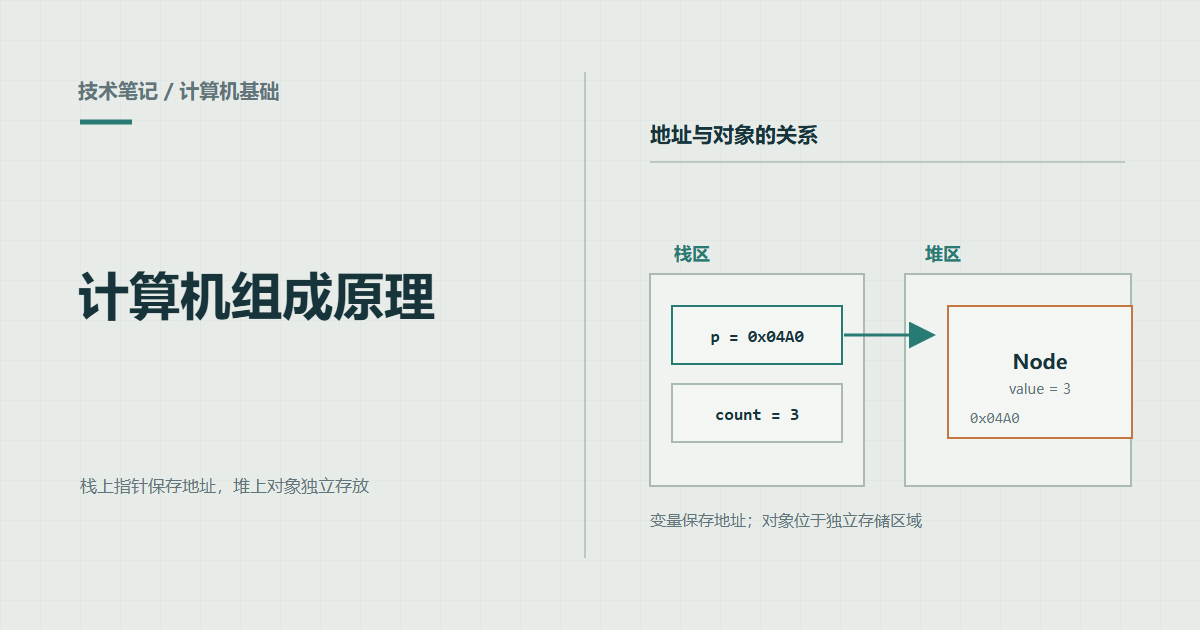
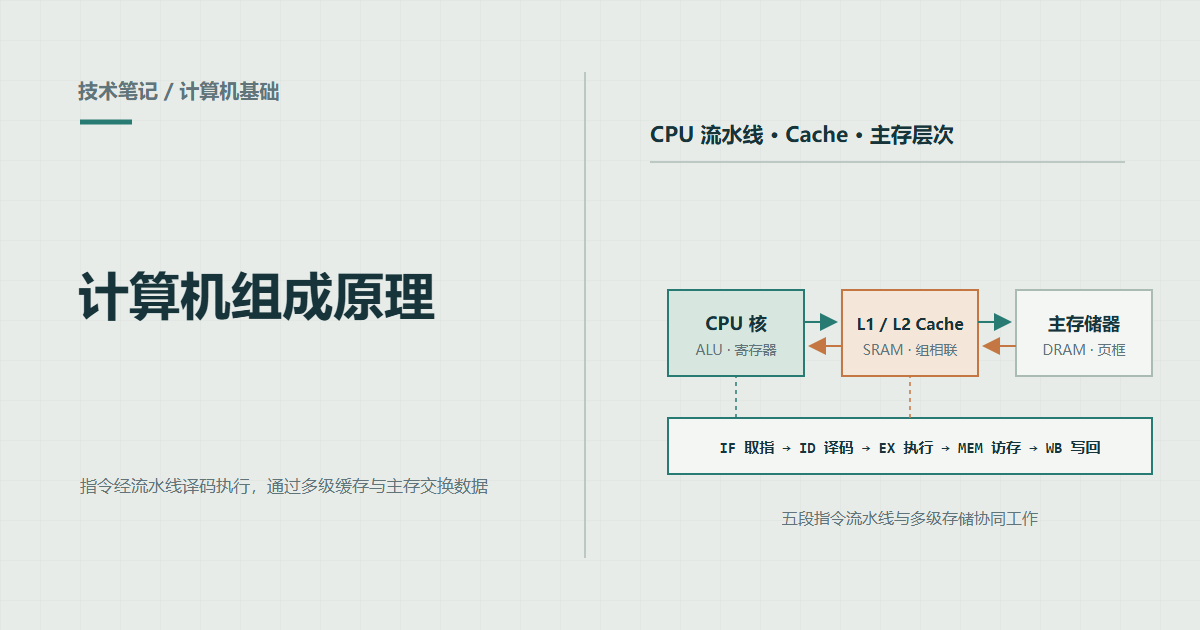
feat(post): add Computer Organization Ch3-Ch4 and center cover thumbnail

diff --git a/tools/covers/gen_covers.py b/tools/covers/gen_covers.py
@@ -42,6 +42,7 @@ CAPTIONS = {
     "covers": "文章信息经过排版，生成可发布封面",
     "pipeline": "三维顶点经过坐标变换与光栅化，最终着色为屏幕像素",
     "linux": "无 GUI 损耗，以纯文本配置与命令行驱动 7×24 小时持续构建",
+    "computer-org": "指令经流水线译码执行，通过多级缓存与主存交换数据",
 }
 
 
@@ -401,6 +402,24 @@ def diagram_linux():
     ])
 
 
+def diagram_computer_org():
+    return "".join([
+        t(650, 205, "CPU 流水线 · Cache · 主存层次", 21, INK, 650),
+        rule(650, 222, 1125, 222),
+        box(668, 290, 136, 86, "CPU 核", MINT, TEAL, 18, "ALU · 寄存器"),
+        box(842, 290, 136, 86, "L1 / L2 Cache", "#F4E6D9", ORANGE, 16, "SRAM · 组相联"),
+        box(1016, 290, 136, 86, "主存储器", PALE, SOFT, 18, "DRAM · 页框"),
+        rule(804, 322, 834, 322, TEAL, 2, marker="tealArrow"),
+        rule(842, 346, 812, 346, ORANGE, 2, marker="orangeArrow"),
+        rule(978, 322, 1008, 322, TEAL, 2, marker="tealArrow"),
+        rule(1016, 346, 986, 346, ORANGE, 2, marker="orangeArrow"),
+        box(668, 418, 484, 56, "IF 取指  →  ID 译码  →  EX 执行  →  MEM 访存  →  WB 写回", PALE, TEAL, 15, mono=True),
+        rule(736, 418, 736, 376, TEAL, 1.5, "4 4"),
+        rule(910, 418, 910, 376, ORANGE, 1.5, "4 4"),
+        t(910, 524, "五段指令流水线与多级存储协同工作", 16, MUTED, anchor="middle"),
+    ])
+
+
 def select_variant(top, sub, title):
     if sub == "图形学" or "渲染管线" in title or "Shader" in title:
         return "pipeline"
@@ -416,7 +435,7 @@ def select_variant(top, sub, title):
         if "计算机网络" in title: return "network"
         if "离散数学" in title: return "graph"
         if "数据结构" in title: return "huffman"
-        if "组成原理" in title: return "memory"
+        if "组成原理" in title: return "computer-org"
         return "process"
     if sub == "网络":
         if "帧同步" in title: return "frame-sync"
@@ -468,6 +487,7 @@ def diagram_for(kind):
     if kind in ("ai-coding", "ai-agent", "covers"): return diagram_ai(kind)
     if kind == "pipeline": return diagram_pipeline()
     if kind == "linux": return diagram_linux()
+    if kind == "computer-org": return diagram_computer_org()
     if kind in ("learning","reflection-notes"): return diagram_learning(kind=="reflection-notes")
     return diagram_layers("architecture", "")
 
@@ -483,6 +503,7 @@ def diagram_heading(kind):
         "ai-coding":"人机协作 · 工程回路","ai-agent":"Agent · 规划与工具调用",
         "covers":"文章到封面的生成链路","pipeline":"顶点变换 · 光栅化 · 片元着色",
         "linux":"无头服务 · 命令行 · 持续构建",
+        "computer-org":"CPU 流水线 · Cache · 主存层次",
         "learning":"学习闭环","reflection-notes":"经验与思考"}
     return names[kind]
 

diff --git a/source/_posts/【计算机基础】计算机组成原理.md b/source/_posts/【计算机基础】计算机组成原理.md
@@ -178,18 +178,135 @@ description: 基于唐朔飞/袁春风《计算机组成原理》、CSAPP 与 40
 
 ---
 
-## 第三章 存储系统（主存与高速缓冲存储器 Cache）（待更新）
+## 第三章 存储系统（主存与高速缓冲存储器 Cache）
 
-- **3.1 半导体主存（SRAM vs DRAM）、容量扩展与大小端字节序**：DRAM 三种刷新、字位扩展、多体低位交叉、大端/小端与结构体内存对齐。
-- **3.2 高速缓冲存储器（Cache）与三种地址映射**：直接映射、全相联映射、组相联映射的主存物理地址拆分与 Cache 总容量计算。
-- **3.3 Cache 替换算法、写策略与伪共享（False Sharing）**：LRU、全写法（Write-Through）vs 写回法（Write-Back）、Cache Line 伪共享。
+### 3.1 半导体主存（SRAM vs DRAM）、容量扩展与大小端字节序
+
+1. **三级存储体系层次结构**
+   - 现代计算机为解决“**容量、速度、价格**”三者之间的矛盾，基于局部性原理构建了存储金字塔：
+     1. **`Cache — 主存` 层次**：主要解决 **CPU 与主存速度不匹配**的问题。数据调度完全由**硬件（Cache 控制器）**自动完成，**对系统程序员和应用程序员均完全透明**。
+     2. **`主存 — 辅存（磁盘/SSD）` 层次**：主要解决**存储系统容量不足**的问题（构成虚拟存储器）。数据调页由**硬件（MMU 缺页异常）与操作系统软件**共同完成，**对应用程序员透明，但对系统（OS）程序员可见**。
+2. **SRAM（静态随机存储器）与 DRAM（动态随机存储器）核心对比（必考）**
+
+![半导体主存SRAM与DRAM刷新及大小端字节序](/img/posts/co-ch3-sram-dram-endian.svg)
+
+| 对比维度 | SRAM（静态 RAM） | DRAM（动态 RAM，DDR 内存条） |
+| :--- | :--- | :--- |
+| **存储元物理原理** | **双稳态触发器**（6 个 MOS 晶体管构成） | **栅极电容上的电荷**（1 个晶体管 + 1 个电容 `1T1C`） |
+| **读出是否破坏原值** | **非破坏性读出**（读出后无需重写） | **破坏性读出**（读出时电容放电，**读后必须立即执行再生重写**） |
+| **是否需要定期刷新** | **不需要刷新**（只要不断电数据永不丢失） | **必须定期刷新**（电容漏电，通常在 **`2ms` 刷新周期**内按**行**刷新全部行） |
+| **送行列地址方式** | 行、列地址**同时送达**（地址引脚多） | 采用**地址线复用技术**，行地址和列地址**分两次先后送入同一组引脚**（地址引脚数直接减半） |
+| **速度、密度与用途** | 速度极快、集成度低、功耗大、价格昂贵 → **用作 CPU 内部 Cache** | 速度较慢、集成度极高、功耗低、价格便宜 → **用作主存储器（内存条）** |
+
+   - **DRAM 的三种刷新方式（设存储矩阵为 `128 × 128`，读写周期 `0.5μs`，刷新周期 `2ms = 2000μs`；注意 DRAM 刷新以“行”为单位且刷新过程占用的时间等于 1 个读写周期）**：
+     1. **集中刷新**：在 `2ms` 内的最后一段时间集中对全部 `128` 行逐行刷新。缺点：集中刷新的这 `128 × 0.5μs = 64μs` 期间 CPU 和 DMA 完全无法访问主存，形成长达 `64μs` 的**访存“死区（死时间）”**。
+     2. **分散刷新**：将每行的刷新插入到每个正常的读写周期之后（把机器存取周期从 `0.5μs` 延长一倍至 `1.0μs`：前 `0.5μs` 正常读写，后 `0.5μs` 刷新某一行）。优点：彻底消除死区；缺点：每隔 `128μs` 就把全片刷新了一遍，**过度刷新导致整机主存性能降低一半**。
+     3. **异步刷新（工程最佳折中）**：用刷新周期除以总行数（**`刷新间隔 = 2000μs / 128 ≈ 15.6μs`**），每隔 `15.6μs` 仅发出一次刷新请求刷新 1 行。既避免了长死区（死时间缩短为单个周期 `0.5μs`，且可安排在 CPU 指令译码不访存阶段），又不会无谓延长存取周期。
+3. **主存芯片容量扩展（位扩展、字扩展、字位同时扩展）与多体交叉存储器**
+   - 设目标主存容量为 `M × N` 位，单颗存储芯片容量为 `m × n` 位，则所需芯片总数为 **`(M / m) × (N / n)`**：
+     - **位扩展（仅扩充数据位宽 `k = N / n` 颗）**：各芯片的**地址线、片选线 `CS`、读写控制线 `WE` 全部并联**，而各芯片的**数据线各自独立引出**共同拼成 `N` 位数据总线（所有芯片同时工作）。
+     - **字扩展（仅扩充存储字数 `k = M / m` 颗）**：各芯片的**低位地址线、数据线、读写线全部并联**，由**高位地址线经过译码器（如 3-8 译码器 `74LS138`）产生独立的片选信号 `CS`**，同一时刻仅有 1 颗芯片被选中工作。
+   - **多体并行交叉存储器（高位交叉 vs 低位交叉）**：
+     - **高位交叉编址（顺序方式：`体号 | 体内地址`）**：仅相当于单纯扩容，连续访问相邻地址时全部落在同一个存储体内，必发生访存冲突，无法并行提速。
+     - **低位交叉编址（交叉方式：`体内地址 | 体号`，连续地址轮流分布在 `m` 个不同存储体中，块号 `k = 地址 % m`）**：完美契合程序局部性原理，支持**流水线式并行存取**。设单个存储体的存取周期为 `T`，总线传输周期为 `τ`（满足 `m ≥ T / τ`），则**连续读取 `n` 个字所需的总时间**为：
+       **`t_总 = T + (n - 1) × τ`**（宏观上每个周期 `τ` 都能吐出 1 个字）。
+4. **数据的字节排列（大端序 vs 小端序）与结构体内存对齐**
+   - **大端模式（Big-Endian）与小端模式（Little-Endian）**：
+     以 32 位四字节整数 `0x12345678`（其中最高有效字节 `MSB = 0x12`，最低有效字节 `LSB = 0x78`）存放在起始地址 `0x1000` 为例：
+     - **大端序（高对低）**：将数据的**最高有效字节（`0x12`）存放在最低内存地址（`0x1000`）**，符合人类从左到右阅读习惯（**TCP/IP 网络字节序**、Java 虚拟机、PowerPC 采用）。
+     - **小端序（低对低，口诀必记）**：将数据的**最低有效字节（`0x78`）存放在最低内存地址（`0x1000`）**，便于硬件 ALU 从低位字节开始做加法和强制类型截断（**x86/x64、ARM 默认采用**）。
+   - **C/C++ 结构体字节对齐（Memory Alignment）的两大黄金法则**：
+     - **为什么硬件要求内存对齐**：CPU 并非按单字节读写内存，而是按 `4B / 8B` 字块或 `64B` Cache Line 读写；若一个 4 字节 `int` 跨在两个字块边界上，CPU 必须发 **2 次访存周期**再做高低位拼接，甚至在某些 RISC 架构上直接触发硬件对齐异常。
+     - **编译器对齐规则**：① 每个成员变量的**起始偏移量（Offset）必须是该成员自身大小（与 `#pragma pack(n)` 较小者）的整数倍**，不足则填充空白字节（Padding）；② **整个结构体的总大小必须是其内部最大基本成员对齐数的整数倍**。
 
 ---
 
-## 第四章 指令系统（ISA）（待更新）
+### 3.2 高速缓冲存储器（Cache）与三种地址映射
 
-- **4.1 指令格式、扩展操作码与数据寻址方式**：定长/变长扩展操作码、立即/直接/间接/寄存器/基址/变址/相对寻址 `EA = (PC) + A`。
-- **4.2 CISC（复杂指令集）与 RISC（精简指令集）对比**：x86 vs ARM/RISC-V 核心架构特征对照。
+1. **Cache 工作原理与命中率、平均访问时间**
+   - Cache 与主存被划分为大小完全相等的块：**Cache 块又称为 Cache 行（Cache Line / Slot，现代 CPU 通常为 `64B`）**。
+   - 设 CPU 命中 Cache 的总次数为 `Nc`，访问主存的总次数为 `Nm`，则**命中率 `H = Nc / (Nc + Nm)`**。设访问 Cache 耗时为 `tc`，访问主存耗时为 `tm`：
+     - **先访 Cache，未命中再访主存**：平均访问时间 **`Ta = H × tc + (1 - H) × (tc + tm) = tc + (1 - H) × tm`**；
+     - **同时访问 Cache 与主存**：平均访问时间 **`Ta = H × tc + (1 - H) × tm`**。
+2. **Cache — 主存的三种地址映射方式与物理地址拆分（408 核心必考题）**
+   设主存物理地址总长度为 `A` 位，每个主存块（= Cache 行数据块）大小为 **`B = 2^b` 字节**，则物理地址的最低 **`b` 位固定为“块内地址（字节偏移量）”**，高 `m = A - b` 位为主存块号 `j`：
+
+![Cache三种地址映射物理地址拆分与写策略](/img/posts/co-ch3-cache-mapping.svg)
+
+| 映射方式 | 映射规则与查找机制 | 主存物理地址拆分格式 | 优缺点对比 |
+| :--- | :--- | :--- | :--- |
+| **1. 直接映射**<br>(Direct Mapped) | 主存第 `j` 块**只能唯一固定映射**到 Cache 的第 **`i = j % C`** 行（设 Cache 总行数为 `C = 2^c`） | **`[ 标记 Tag (t位) \| Cache行号 (c位) \| 块内地址 (b位) ]`**<br>（其中 `t = A - c - b`） | 硬件实现最简单（根据中间 `c` 位直接找到唯一行，仅需 1 个比较器比对 Tag）；**缺点：块冲突率极高**，空间利用率最低 |
+| **2. 全相联映射**<br>(Fully Associative) | 主存中任意一块可以装入 Cache 中的**任意一个空闲行** | **`[ 标记 Tag (t = A - b 位) \| 块内地址 (b位) ]`** | **块冲突率最低、空间利用率和命中率最高**；缺点：标记位 `Tag` 最长，且每次必须用相联存储器与**所有行的 Tag 并行比较**，硬件成本和功耗高昂 |
+| **3. k 路组相联映射**<br>(k-Way Set Associative) | 将 Cache 分为 `Q = C / k = 2^q` 个组（每组含 `k` 行）：**组间采用直接映射**定位组号 **`g = j % Q`**，**组内 `k` 行采用全相联映射** | **`[ 标记 Tag (t位) \| Cache组号 (q位) \| 块内地址 (b位) ]`**<br>（其中 `q = log2 Q`，`t = A - q - b`） | **现代 CPU 标准方案**（如 8 路组相联）：兼顾了直接映射硬件简单与全相联低冲突率的优点（仅需 `k` 个并行比较器） |
+
+3. **Cache 总容量（存储体总位数）精确计算公式（必考易错点）**
+   **注意**：题目问“**Cache 的总容量（总位数）**”时，绝对不仅仅是数据区的容量，**必须加上每一行的控制位（有效位、脏位、替换算法位）和标记位 `Tag`**！
+   设 Cache 共有 `C` 行，每行数据块大小为 `B = 2^b` 字节，则**单行 Cache 的总位数**为：
+   **`单行总位数 = 有效位 (1 bit) + [写回法脏位 (1 bit)] + [k路组相联 LRU 替换位 (log2 k bit)] + 标记位 Tag (t bit) + 数据块位数 (B × 8 bit)`**
+   **`Cache 总容量 = Cache 总行数 C × 单行总位数`**
+
+---
+
+### 3.3 Cache 替换算法、写策略与伪共享（False Sharing）
+
+1. **Cache 替换算法（仅全相联和组相联需要；直接映射位置唯一，无须替换算法直接覆盖）**
+   - **随机算法（RAND）**、**先进先出算法（FIFO）**、**近期最少使用算法（LRU，命中率最高，最常用；注意抖动情况：当循环访问的数组块数恰好大于组内行数或总行数时，LRU 命中率会跌至 0）**、**最不经常使用算法（LFU）**。
+2. **Cache 写策略（维护 Cache 与主存数据一致性的两套标准组合）**
+   - **组合一：全写法（写直达，Write-Through）+ 非写分配法（Not-Write-Allocate）**
+     - **写命中时（全写法）**：CPU **同时把数据写入 Cache 和主存**（为避免 CPU 苦等慢速主存，在 Cache 与主存之间增设一个 FIFO **写缓冲 Write Buffer**）。**无需设置脏位（修改位）**。
+     - **写不命中时（非写分配法）**：直接将数据写入主存，**不把该块调入 Cache**（通常用于 L2/L3 或无脏位简单设计）。
+   - **组合二：写回法（Write-Back）+ 写分配法（Write-Allocate，现代 L1 Cache 标准）**
+     - **写命中时（写回法）**：CPU **只修改 Cache 行中的数据，而不立即写入主存**，仅将该 Cache 行的**修改位（脏位 Dirty Bit）置为 `1`**；直到该 Cache 行将来被替换换出时，若脏位为 `1` 才一次性写回主存（大幅减少访存带宽占用，但**每行必须增加 1 bit 脏位**）。
+     - **写不命中时（写分配法）**：先把主存中对应的块**调入 Cache**，然后在 Cache 中修改它并置脏位为 `1`。
+3. **多线程性能隐形杀手：Cache Line 伪共享（False Sharing）**
+   - **成因**：现代多核 CPU 通过 **MESI 缓存一致性协议**以 **Cache Line（通常 64 字节）为最小单位**维护各核 L1 Cache 的一致性。如果两个毫无关系的独立变量 `int a` 和 `int b` 恰好紧挨着定义在同一个结构体或数组中，它们会被同时加载进**同一个 64B 的 Cache Line**。当核心 0 频繁修改 `a`、同时核心 1 频繁修改 `b` 时，两个核心会反复通过总线互相将对方的整条 Cache Line 置为**无效（Invalid）**，导致 L1 Cache 彻底失效、总线被一致性流量打满，性能暴跌数十倍！
+   - **工程解决方案**：使用 **`alignas(64)`**（C++11）或手动填充 Padding 字节，将多线程高频独立写入的变量隔离到不同的 64B Cache Line 中。
+
+---
+
+## 第四章 指令系统（ISA）
+
+### 4.1 指令格式、扩展操作码与数据寻址方式
+
+1. **指令的基本格式与扩展操作码技术**
+   - **按地址码个数分类**：零地址指令（栈式运算 `ADD` 或 `NOP / RET`）、一地址指令（单操作数如 `INC R1` 或隐含 `ACC` 的双操作数运算）、二地址指令（`OP dst, src`）、三地址指令（`OP dst, src1, src2`，RISC 标准）。
+   - **定长操作码 vs 扩展操作码（可变长操作码，必考计算）**：
+     - 在**指令总字长固定**的前提下，为提供更多种类的指令，让地址码个数少的指令拥有更长的操作码（**铁律：短操作码绝对不能是长操作码的前缀！即必须留出至少 1 个编码全 1 状态作为向下一级扩展的入口**）。
+     - **扩展操作码条数计算公式**：设某级地址字段为 `k` 位，若本级共需留出 `m` 个编码状态给下一级扩展，则本级最多只能定义 **`2^k - m` 条指令**，而下一级将获得 **`m × 2^k` 个可用编码状态**。
+2. **十种常见数据寻址方式与有效地址（EA）计算汇总**
+   指令中的地址码字段记为**形式地址 `A`**，操作数在主存中的真实物理/逻辑地址记为**有效地址 `EA`（Effective Address）**，`(X)` 表示寄存器或主存地址 `X` 中存放的内容：
+
+| 寻址方式 | 有效地址 `EA` 及操作数获取公式 | 完整执行阶段的访存次数<br>（不含取指周期的 1 次访存） | 核心特征与典型应用场景 |
+| :--- | :--- | :---: | :--- |
+| **1. 隐含寻址** | 操作数默认隐含在特定寄存器（如累加器 `ACC` 或栈顶 `SP`）中 | **0 次** | 缩短指令地址码长度 |
+| **2. 立即寻址** | **形式地址 `A` 本身就是操作数（立即数 `#A`）**（补码表示） | **0 次** | 执行阶段最快；缺点是数值大小受限于字段 `A` 的位数 |
+| **3. 直接寻址** | **`EA = A`**，操作数 `= (A)` | **1 次** | 简单直观；缺点是寻址空间受限于 `A` 的位数，且地址写死不便重定位 |
+| **4. 间接寻址** | **`EA = (A)`**（一次间址，主存单元 `A` 中存放的是操作数的真正地址） | **2 次**（1 次取有效地址 + 1 次取操作数） | 扩大寻址范围，便于编制子程序返回与指针跳转；缺点是多次访存慢 |
+| **5. 寄存器寻址** | `EA = Ri`，操作数 `= (Ri)`（`A` 给出了寄存器编号） | **0 次** | 无需访存、速度极快，且寄存器编号位数极短（如 16 个寄存器仅需 4 位） |
+| **6. 寄存器间接寻址** | **`EA = (Ri)`**，操作数 `= ((Ri))`（寄存器 `Ri` 存放操作数的主存地址） | **1 次** | 比主存间接寻址少 1 次访存，广泛用于 C/C++ 指针解引用 `*p` |
+| **7. 基址寻址** | **`EA = (BR) + A`**（基址寄存器 `BR` 内容 + 形式地址偏移量 `A`） | **1 次** | **面向操作系统**：程序运行期间 **`BR` 固定不变，`A` 可变**，用于**多道程序动态重定位** |
+| **8. 变址寻址** | **`EA = (IX) + A`**（变址寄存器 `IX` 内容 + 形式地址首址 `A`） | **1 次** | **面向用户程序员**：**`A` 存数组首址固定不变，`IX` 随循环下标递增可变**，用于**数组遍历** |
+| **9. 相对寻址** | **`EA = (PC) + A`**（当前程序计数器 `PC` + 补码偏移量 `A`） | **1 次** | **用于转移指令与位置无关代码（PIC）**；注意此时 `(PC)` 已等于**下一条指令地址** |
+| **10. 堆栈寻址** | 通过栈顶指针寄存器 `SP` 自动增减读写内存栈区 | 软堆栈 **1 次** | 用于函数调用参数传递、中断现场保护与恢复 |
+
+   - **相对寻址跳转目标地址计算铁律（高频陷阱）**：
+     假设当前跳转指令存放在主存地址 `X` 处，该指令本身长度为 `L` 字节（如 `2B` 或 `4B`），指令中给出的相对偏移量为补码 `A`。由于 CPU 在取指周期刚取出该指令后，**硬件 `PC` 已经自动完成了 `PC = X + L`（指向下一条指令的起始地址）**，因此在执行阶段计算跳转目标有效地址时，公式永远是：
+     **`跳转目标地址 EA = (当前指令起始地址 X + 本条指令长度 L) + 偏移量 A`**
+
+![常见数据寻址方式与偏移寻址三兄弟及CISC与RISC对比](/img/posts/co-ch4-addressing-risc.svg)
+
+---
+
+### 4.2 CISC（复杂指令集）与 RISC（精简指令集）
+
+| 对比维度 | CISC（复杂指令集计算机 · 如 x86） | RISC（精简指令集计算机 · 如 ARM / MIPS / RISC-V） |
+| :--- | :--- | :--- |
+| **设计哲学** | 试图用一条复杂的机器指令直接完成高级语言的一整句功能，指令系统庞大至数千条 | **遵循 20-80 律**：只保留使用频率最高的 20% 简单指令，复杂操作由简单指令组合完成 |
+| **指令字长与格式** | **指令字长可变**（1B ～ 15B 不等），格式与寻址方式极其繁杂 | **指令字长固定（通常定长 32 位）**，指令格式与寻址方式种类极少，译码硬件极简 |
+| **访存指令限制** | 不加限制，算术逻辑运算指令可以直接访问主存操作数 | **严格的 `Load / Store` 架构**：**只有 `Load`（取数）和 `Store`（存数）两条指令能访问主存**，其余所有算术逻辑运算指令的操作数**必须全部来自通用寄存器** |
+| **通用寄存器数量** | 较少（早期 x86 仅 8 个，x64 扩至 16 个） | **极多**（通常 ≥ 32 个通用寄存器，减少访存次数） |
+| **控制器实现方式** | 绝大多数采用**微程序控制器**（存储逻辑） | 绝大多数采用**硬布线控制器**（纯组合逻辑硬件门电路，执行极快） |
+| **指令流水线契合度** | 指令长度与执行周期悬殊，硬件直接流水线化困难（现代 x86 在前端将复杂指令拆解为类 RISC 的微操作 `μops` 后再送入流水线） | 绝大多数指令均在 **1 个时钟周期**内完成（`CPI ≈ 1`），**天然契合超标量指令流水线**与编译优化 |
 
 ---
 
